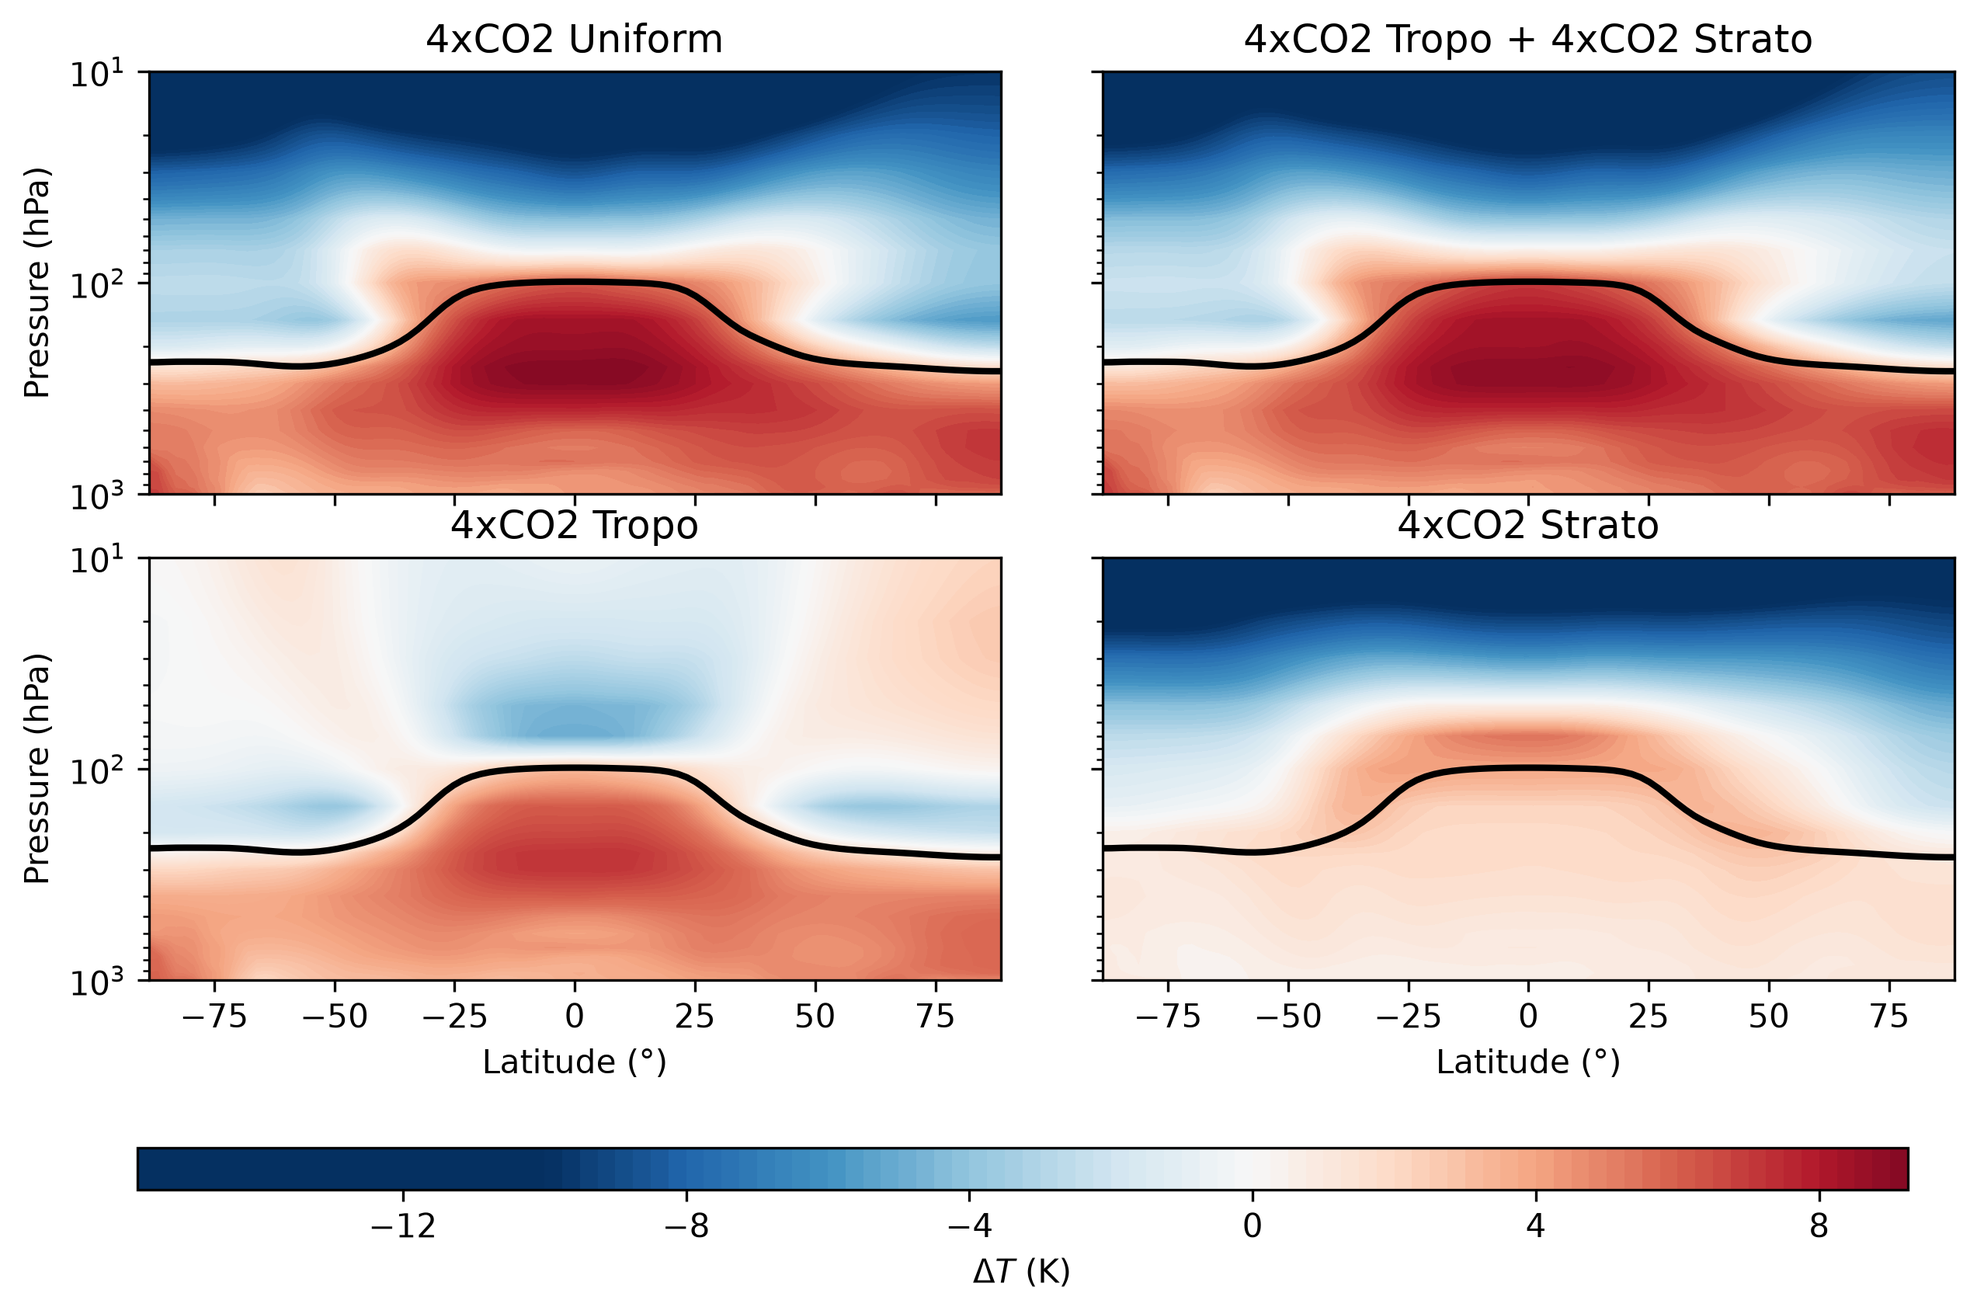
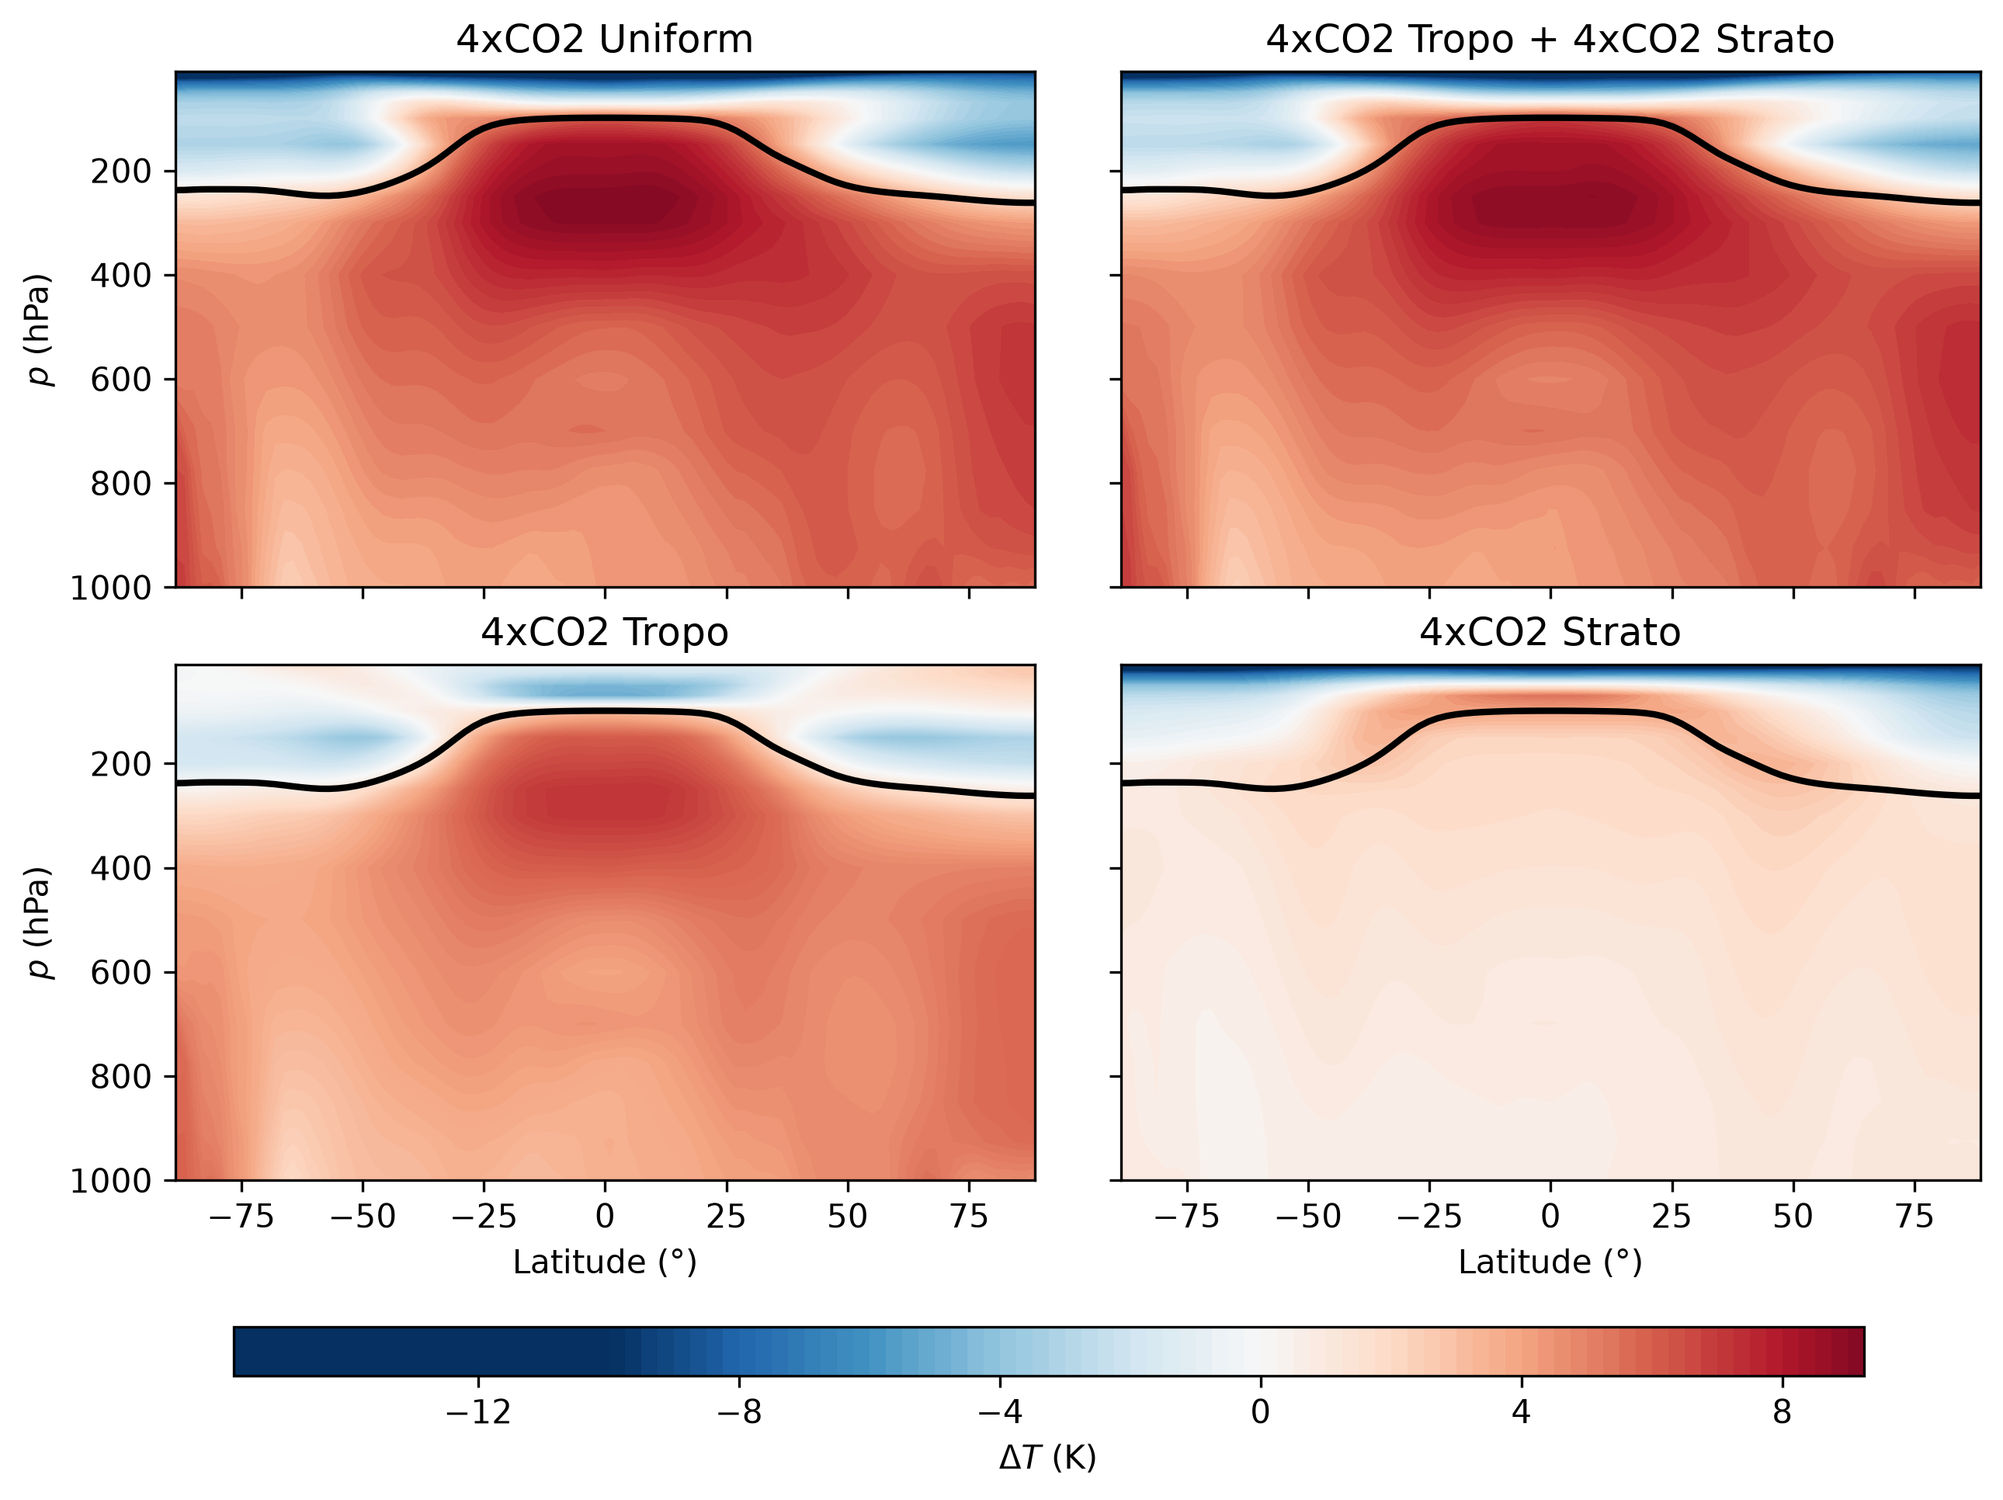
temperature and circulation response chapter

diff --git a/thesis_document/latex_doc/Uni_Hamburg_earth_system_sciences__bachelor_master_thesis_template/content/results.tex b/thesis_document/latex_doc/Uni_Hamburg_earth_system_sciences__bachelor_master_thesis_template/content/results.tex
@@ -2,34 +2,43 @@
 \label{chapter:results}
 \section{Simulation results}
 \subsection{Linearity of decomposition}
+When separating the uniform quadrupling of \CO{} into a tropospheric and a stratospheric component in our simulations with ECHAM6, one might be wondering whether this decomposition even works. The decomposition is physically not possible to realize in a real atmosphere due to its well-mixed state. There could be non-linearities involved. In short: Is the response to uniform forcing \CO{} identical to the added up responses of the atmosphere to a forcing in the troposphere and stratosphere? Is the net circulation response decomposable into these two components?
+\begin{figure}[H]
+    \centering
+    \includegraphics[width=1.0\textwidth,keepaspectratio]{initial_plots/linear_T.png}
+    \caption{The temperature anomalies with a uniform increase of \CO{} concentration, the added \tropo and \strato cases, and their non-linearities as the difference (from left to right). The black line indicates the tropopause height in the PI run.}
+    \label{fig:lin_T}
+\end{figure}
+
+To find out whether \CO{} in the vertical show a linear behavior, we compared the temporal and zonal mean temperature anomalies of the uniform case to the added up anomalies from \tropo and \strato. As one can see in Figure \ref{fig:lin_T} the temperature response is almost completely linear. The difference plots shows that the deviations have a mean value of \SI{0.2}{\K} and a maximum magnitude of \SI{1.8}{\K}. The largest discrepancies can be found in the Northern hemisphere stratosphere and right above the tropopause. Since we are most interested in the response of the atmospheric circulation, we also check its linearity. In Figure \ref{fig:lin_msf}, one can see that the MSF in \uniform very much resembles the sum of \tropo and \strato. Here, the mean difference is about $0.5\%$ with a maximum difference of $6.3\%$ of the maximum absolute value of the MSF in the PI run. (TODO: Do you prefer standard deviation?)
 
 \begin{figure}[h]
     \centering
-    \includegraphics[width=\textwidth,keepaspectratio]{initial_plots/linear_T.png}
-    \caption{}
+    \includegraphics[width=1.0\textwidth,keepaspectratio]{initial_plots/difference_stream_function.png}
+    \caption{Testing the linearity of the circulation response. The shading indicates the anomalies of the MSF in \uniform, the added \tropo and \strato cases, and their non-linearities as the difference (from left to right). The black contours show the MSF in the PI run. Continuous lines are positive (clockwise) while dashed lines indicate negative (counterclockwise) values. The cross marks the location of the MSF maximum in the PI run.}
+    \label{fig:lin_msf}
 \end{figure}
 
-\begin{figure}[h]
-    \centering
-    \includegraphics[width=\textwidth,keepaspectratio]{initial_plots/difference_stream_function.png}
-\end{figure}
-
+Overall, the decomposition of the \CO{} increase works. The response is approximately linear in the temperature and MSF anomalies. Nonetheless, one should bare the small non-linear effects in mind in the further analysis of these results.
 \subsection{Temperature anomalies}
+Our model simulations for the temperature anomalies in \uniform display quite well the expected patterns described in Section \ref{sec:CO2_T_response}. The temperature throughout the troposphere is increased while the warming in the upper tropics oft is enhanced and amplified in the Arctic while the stratosphere is cooled (see Figure \ref{fig:lin_T} left panel). 
+We now expected that the \CO increase only in the troposphere is responsible for its warming while \CO increase only in the stratosphere is responsible for stratospheric cooling. This is also what we see in Figure \ref{fig:temperature_initial}. The warming in the troposphere also maintains the spatial structure from the \uniform case. In the response of the \tropo we notice an additional cooling in the stratosphere right above the tropopause, which will be further investigated. In \strato the tropospheric temperatures remains almost constant. Only right above the tropopause, there is an unexpected anomalous warming. Given these temperature responses, one would still expect the net weakening to originate from tropospheric \CO and the associated warming of the troposphere. However, the warming/cooling right above the tropopause might have an influence on the tropopause height and the vertical stability resulting in unexpected HC changes. 
 
+To better understand the cause of the anomalous warming in \strato and the anomalous cooling in \tropo right above the tropopause, we perform experiments with \textit{konrad} changing the vertical \CO concentration. Looking at Figure \ref{fig:konrad}, one can see by comparing \uniform to \tropo + \strato that there is again some non-linearity in the response right above the tropopause. Still, after considering the non-linearity there is an anomalous warming above the tropopause in the \strato and an anomalous cooling in the \tropo case. In the experiments with \textit{konrad} it also extends below the tropopause. We believe that the heating rate induced by the step wise increase in optical thickness associated with the step wise increase of \CO might be its cause. Thus, we can conclude that also the heating in \strato and cooling in \tropo above the tropopause in our experiments with ECHAM6 are a static thermodynamic response and not evoked by changes in the atmospheric circulation.
 
 \begin{figure}[h]
     %% trim=left bottom right top,
     \centering
-   \includegraphics[width=1.0\textwidth,keepaspectratio,trim=0 0 0 0, clip]{initial_plots/temperature.png}
-    \caption{  }
+   \includegraphics[width=1.0\textwidth,keepaspectratio,trim=0 0 0 0, clip]{initial_plots/T_tropo_strato.png}
+    \caption{The temperature anomalies for our experiments with a GCM where we only increase \CO in the troposphere (left hand side) or in the stratosphere and everything above (right hand side). To separate these two cases we use a PI climatology tropopause height (black line). }
     \label{fig:temperature_initial}
 \end{figure}
 
 \begin{figure}[h]
     %% trim=left bottom right top,
     \centering
-   \includegraphics[width=1.0\textwidth,keepaspectratio,trim=0 0 0 0, clip]{rce_simulations/konrad_slab_Tcold_CO2.png}%TO CHANGE
-    \caption{  }
+   \includegraphics[width=0.7\textwidth,keepaspectratio,trim=0 0 0 0, clip]{rce_simulations/konrad_final.png}%TO CHANGE
+    \caption{\CO concentration and temperature anomalies for our experiments with the one-dimensional RCE model \textit{konrad}. The black, horizontal line indicates the tropopause height determined as the cold-point temperature from a PI control run. }
     \label{fig:konrad}
 \end{figure}
 
@@ -37,17 +46,15 @@
 
 
 \subsection{The atmospheric response}
-
-
-
-
+One of the main questions that this study tries to answer is how does the HC respond to \CO forcing in the troposphere versus \CO forcing in the stratosphere. What are their relative contributions to net weakening and widening that has been found in previous studies (see Section \ref{})? 
+What we find when analysing the HC extent according to our definitions from Section \ref{} is that the HC is weakening and widening in the \uniform case (see Figure \ref{fig:lin_msf}, left panel) in both hemispheres. This aligns with our expectations. Surprisingly, this weakening cannot be traced back to the increase in tropospheric \CO, due to which the HC is strengthening, but to stratospheric \CO. This implies that the cooling of the stratosphere is responsible for the weakening of the HC in \uniform and not the warming of the troposphere. For a summary of all HC changes see Table \ref{tab:HC_changes}. One should notice here that the HC strength response is not linear in neither hemisphere, while the changes in HC extent are to a good approximation. Considering the magnitude of the individual changes, which are all significantly larger than the HC response to the uniform forcing, we perceive them as robust physical responses instead of artifacts due to the non-linearities. The HC strength response is also quite different between the hemispheres.  
 
 
 \begin{figure}[h]
     %% trim=left bottom right top,
     \centering
-   \includegraphics[width=1.0\textwidth,keepaspectratio,trim=0 0 0 0, clip]{initial_plots/streamfunc.png}
-    \caption{  }
+   \includegraphics[width=1.0\textwidth,keepaspectratio,trim=0 0 0 0, clip]{initial_plots/msf_tropo_strato.png}
+    \caption{The circulation response in the \tropo and \strato experiment. The shading indicates the anomalies of the MSF in and black contours show the MSF in the PI run. Continuous lines are positive (clockwise) while dashed lines indicate negative (counterclockwise) values. The cross marks the location of the MSF maximum in the PI run. }
     \label{fig:msf_initial}
 \end{figure}
 
@@ -56,12 +63,14 @@
     \begin{tabular}{|l|l|l|l|}
         \hline
         \rowcolor{gray!50}
-         & Uniform & Tropo & Strato \\ \hline
+         & \uniform & \tropo & \strato \\ \hline
          $\Delta\psi_\mathrm{max, NH} $& $-1.9\%$ & $3.6\%$ & $-8.9\%$ \\ \hline
  $\Delta\psi_\mathrm{max, SH} $ & $-2.5\%$ & $4.1\%$ & $-5.1\%$ \\ \hline
  $\Delta\phi_\mathrm{H, NH}$ & \SI{1.6}{\deg} & \SI{0.7}{\deg} & \SI{0.7}{\deg} \\ \hline
  $\Delta\phi_\mathrm{H, SH}$ & \SI{-1.6}{\deg} & \SI{-1.0}{\deg} & \SI{-0.6}{\deg}\\ \hline
     \end{tabular}
+    \caption{The changes in HC extent and strength on our experiments for the Northern and Southern hemisphere. Negative values for the Southern hemisphere extent indicate a widening of the HC.}
+    \label{tab:HC_changes}
     \end{table} 
 
 \section{Physical drivers of HC strength response}

diff --git a/thesis_document/latex_doc/Uni_Hamburg_earth_system_sciences__bachelor_master_thesis_template/content/methods.tex b/thesis_document/latex_doc/Uni_Hamburg_earth_system_sciences__bachelor_master_thesis_template/content/methods.tex
@@ -7,7 +7,9 @@ How will you be able to reproduce this study?
 For our experiments, we use ECHAM 6 \parencite{stevensAtmosphericComponentMPIM2013}, a CMIP 6 type atmospheric General circulation model (GCM), coupled to a slab ocean with a depth of $d=\SI{50}{\m}$. It has a vertical resolution of 47 pressure levels on a $\SI{1.875}{\deg}\times\SI{1.875}{\deg}$ grid.
 We use this complex configuration to obtain a realistic circulation response. Slab ocean simulation are in equilibrium after shorter runtimes. The resolution should be sufficiently small to correctly resolve the cirulation on the atmosphere. We fix the sea ice to avoid problems due to TODO in the slab ocean. We prescribe a climatological q-flux that mimics the ocean energy transport of a coupled control run. 
 
-We run four simulations: First, a pre-industrial control (PI) run. In our second, we quadruple the \CO{} concentration throughout the entire atmosphere (4xCO2 Uniform). Using the climatology tropopause height (see Section \ref{sec:def} for its definition), we only quadruple \CO{} in the troposphere (4xCO2 Tropo), and in all the layers above the tropopause (4xCO2 Strato) while the \CO{} concentration in the remaining domain stays at the PI level in our third and fourth experiment. The \CO{} concentrations of the four experiments can be seen in Figure \ref{fig:co2_conc_setup}. To calculate the forcing on the atmosphere, we perform identical simulations as above while fixing the sea surface temperature (SST) to pre-industrial levels. Thus, the land is still able to warm but this only accounts for a small amount of the net forcing \parencite{andrewsEffectiveRadiativeForcing2021}.
+We run four simulations: First, a pre-industrial control (PI) run. In our second, we quadruple the \CO{} concentration throughout the entire atmosphere (\uniform). Using the climatology tropopause height (see Section \ref{sec:def} for its definition), we only quadruple \CO{} in the troposphere (\tropo), and in all the layers above the tropopause (\strato) while the \CO{} concentration in the remaining domain stays at the PI level in our third and fourth experiment. The \CO{} concentrations of the four experiments can be seen in Figure \ref{fig:co2_conc_setup}. To calculate the forcing on the atmosphere, we perform identical simulations as above while fixing the sea surface temperature (SST) to pre-industrial levels. Thus, the land is still able to warm but this only accounts for a small amount of the net forcing \parencite{andrewsEffectiveRadiativeForcing2021}.
+
+TODO: What years do we choose? How to calculate our anomalies?
 \subsection{The radiative convective equilibrium model konrad}
 To understand the temperature response in our GCM simulations, we use the RCE model \textit{konrad} \parencite{Kluft_konrad}. It solves the RCE in one dimension and does not account for changes in the atmospheric circulation or horizontal inhomogeneities. As in our experiments with the GCM, we run four experiments with the one-dimensional vertical separation of \CO{} concentrations as in Figure \ref{fig:co2_conc_setup}. In these simulations, we use the level of the cold point temperature, which is the coldest point in the atmospheric column, as tropopause height. We also use a slab-ocean surface, which absorbs the TOA radiative imbalance of our PI run in \textit{konrad}, which allows the surface temperature to adjust.
 

diff --git a/thesis_document/latex_doc/Uni_Hamburg_earth_system_sciences__bachelor_master_thesis_template/content/theory.tex b/thesis_document/latex_doc/Uni_Hamburg_earth_system_sciences__bachelor_master_thesis_template/content/theory.tex
@@ -6,7 +6,7 @@
 % • Does the thesis provide a sufficiently comprehensive investigation of the topic?
 TODO: Describe general structure of the chapter
 
-\section{CO2 forcing in the atmosphere and its temperature response}
+\section{CO2 forcing in the atmosphere and its temperature response} \label{sec:CO2_T_response}
 \CO{} is relatively well mixed in the atmosphere. In our simulations with a general circulation model though, we can prescribe different vertical \CO{} profiles. Since \CO{} is a greenhouse gas, this changes the radiative balance and thus the temperature profile of the atmosphere. This section is describing the temperature response of the atmosphere to a uniform increase in \CO{} concentration and to provide an expectation for the temperature change in the different vertical \CO{} profiles. In particular we care about the tropopause height, and meridional and vertical temperature gradients, which are important to understand changes in the HC strength and extent as we will show in Section \ref{}.
 \subsection{Tropospheric warming and stratospheric cooling} 
 The temperature response to a uniform increase in \CO{} concentration is characterized by a warming in the troposphere and a cooling in the stratosphere. The vertical temperature profile of the atmosphere can be determined as a first approximation from the budget of incoming and outgoing radiation everywhere. This state is called radiative equilibrium (RE). Solving RE with a numerical transfer code for a non-grey atmosphere, which means including the vertical distribution of radiatively active gases, yields a lapse rate larger than observed in the atmosphere \parencite{manabeThermalEquilibriumAtmosphere1964}. The observed lapse rate on Earth is close to \SI{6.5}{\K\per\km}. It can be shown that the RE temperature profile is highly sensitive to vertical perturbations, so it is convectively unstable. To account for the upward motions and the condensational heating (moist and dry convection), the concept of radiative convective equilibrium (RCE) was introduced. Here, we adjust the lapse rate to the critical lapse rate (stability threshold), whenever it is exceeded in the integrations of the radiative transfer code.
@@ -185,7 +185,7 @@ The transport of MSE by the mean meridional circulation at a certain latitude $\
     F_\mathrm{HC}(\phi)=\frac{2\pi a\cos\phi}{g}\int^{p_s}_0[\Bar{v}_\mathrm{}][\Bar{h}]\mathrm{d}p.
 \end{equation}
 This expression compares the poleward energy transport by the upper branch of the HC to the equatorward energy transport by the lower branch.
-\begin{wrapfigure}{r}{7.5cm}
+\begin{wrapfigure}{R}{7.5cm}
 \includegraphics[width=7.5cm]{energetic_framework/GMS_F_HC.png}
 \caption{TODO: Only include PI values, increase axis labels}\label{fig:F_HC}
 \end{wrapfigure}

diff --git a/thesis_document/latex_doc/Uni_Hamburg_earth_system_sciences__bachelor_master_thesis_template/main.tex b/thesis_document/latex_doc/Uni_Hamburg_earth_system_sciences__bachelor_master_thesis_template/main.tex
@@ -50,7 +50,10 @@ number-unit-product = \hspace{0.16667em plus 0.08334em}}
 
 \setlist{itemsep=-2pt} % Reducing white space in lists slightly
 \renewcommand{\deg}{\si{\degree}\xspace} % Use \deg easily, everywhere
-\newcommand{\CO}{$\mathrm{CO}_2$}
+\newcommand{\CO}{$\mathrm{CO}_2$\xspace}
+\newcommand{\uniform}{\textit{4xCO2 Uniform}\xspace}
+\newcommand{\tropo}{\textit{4xCO2 Tropo}\xspace}
+\newcommand{\strato}{\textit{4xCO2 Strato}\xspace}
 
 %%%%%%%%%%%%%%%%%%%%%%%%%%%%%
 %%%%% Begin of document %%%%%
